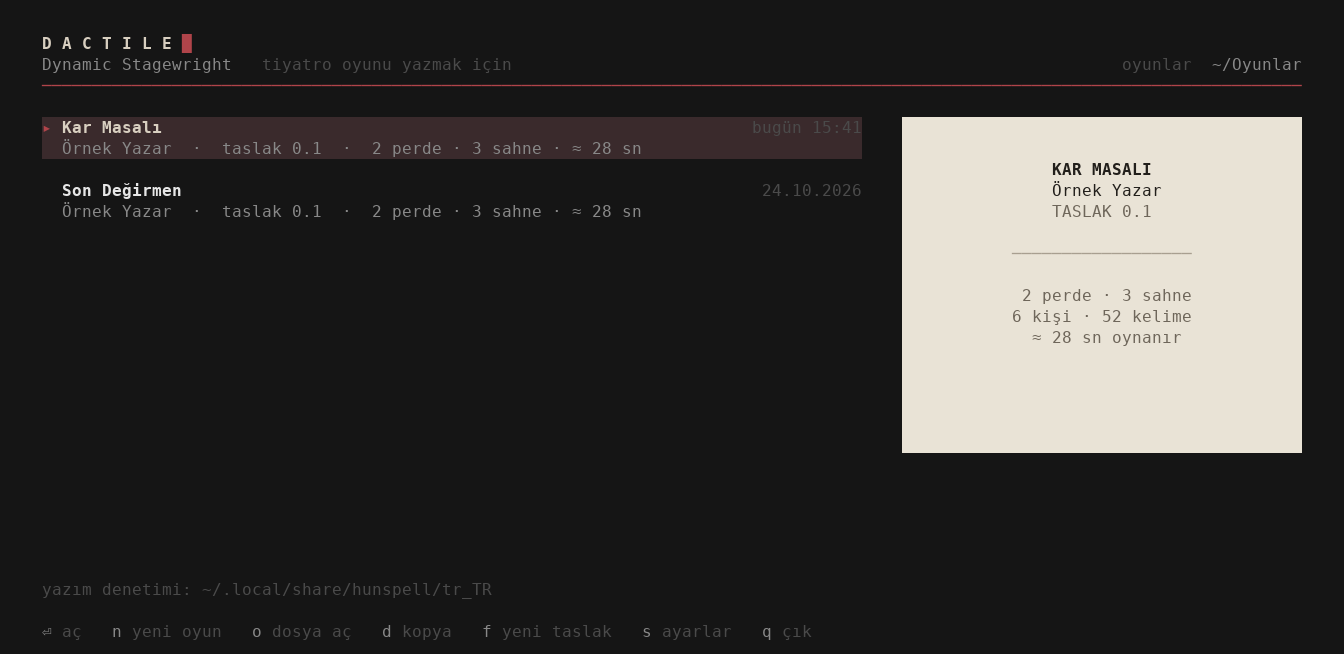
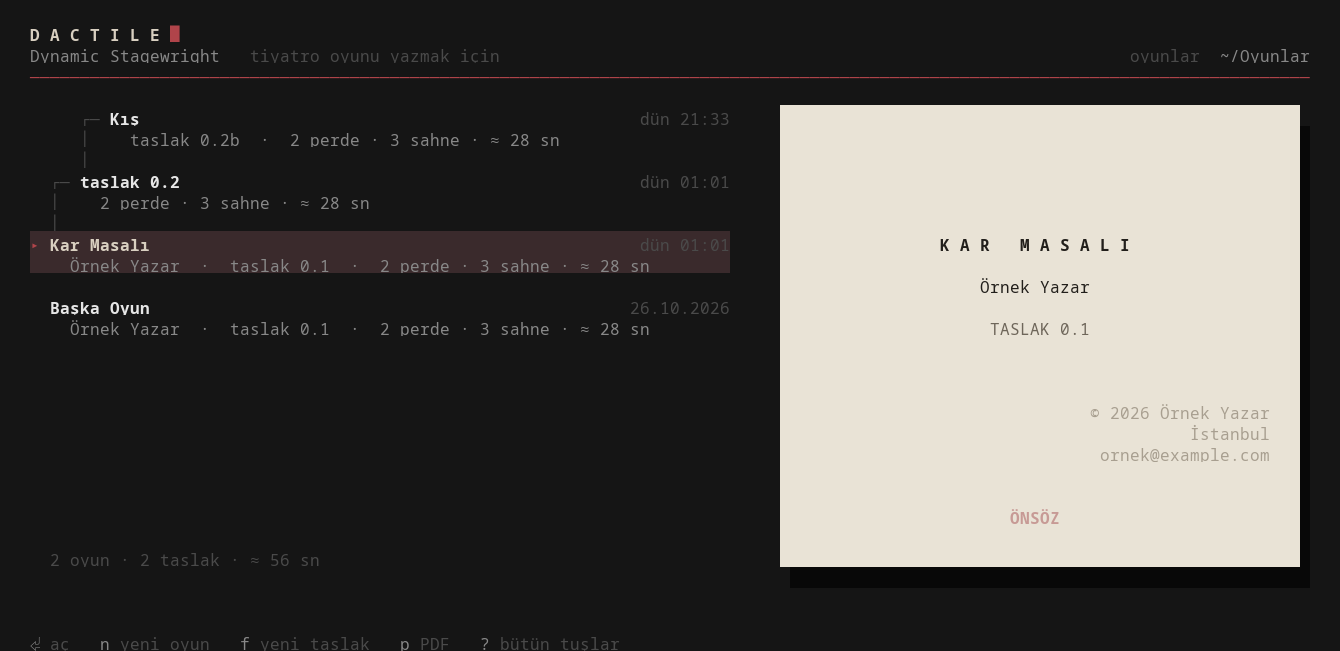
Home: the chosen play's first page fills the right side
The card becomes the play's own first page, laid out by the writer's
renderer in the writer's theme, as tall as the screen, with a shadow and a
foot that fades as if it went on; it unrolls when the choice changes. A
faint line at the list's foot counts the shelf. The key bar keeps the
common keys and `?` opens all of them; the dictionary's path shows only
when it is missing.

diff --git a/src/tui/home.rs b/src/tui/home.rs
@@ -17,6 +17,9 @@ use ratatui::widgets::Paragraph;
 use std::path::{Path, PathBuf};
 use unicode_width::UnicodeWidthStr;
 
+/// How long a play's page takes to unroll.
+const PAGE_OPENS: std::time::Duration = std::time::Duration::from_millis(220);
+
 /// How long the home screen types itself out.
 const TYPE_FOR: std::time::Duration = std::time::Duration::from_millis(2200);
 
@@ -50,6 +53,21 @@ pub struct Home {
     thrown: Option<(String, Vec<dactile::trash::Moved>)>,
     /// The chosen play's title being changed in its row (F2).
     inline: Option<Inline>,
+    /// The chosen play's first page as the writer lays it out, kept until
+    /// the play or the file changes.
+    page: Option<Page>,
+    /// When the page of another play came: it unrolls.
+    page_born: std::time::Instant,
+    page_for: Option<PathBuf>,
+    /// `?`: every key in a window.
+    keys_open: bool,
+}
+
+struct Page {
+    path: PathBuf,
+    modified: Option<std::time::SystemTime>,
+    width: u16,
+    rows: Vec<dactile::render::Row>,
 }
 
 /// A title typed over in its row, as a file manager renames.
@@ -80,6 +98,10 @@ impl Home {
             arming: None,
             thrown: None,
             inline: None,
+            page: None,
+            page_born: std::time::Instant::now(),
+            page_for: None,
+            keys_open: false,
         };
         h.refresh(cfg);
         // On the play worked on last.
@@ -138,8 +160,15 @@ impl Home {
             }
             return Action::Stay;
         }
+        if std::mem::take(&mut self.keys_open) {
+            // Any key closes the keys; Esc and ? do nothing else.
+            if matches!(k.code, KeyCode::Esc | KeyCode::Char('?')) {
+                return Action::Stay;
+            }
+        }
         let ctrl = k.modifiers.contains(KeyModifiers::CONTROL);
         match k.code {
+            KeyCode::Char('?') => self.keys_open = true,
             KeyCode::Char('q') | KeyCode::Esc => return Action::Quit,
             KeyCode::Char('c') if ctrl => return Action::Quit,
             KeyCode::Up => self.sel = self.sel.saturating_sub(1),
@@ -318,7 +347,8 @@ impl Home {
     pub fn animating(&self, cfg: &Config) -> bool {
         cfg.animations
             && (self.born.elapsed() < TYPE_FOR
-                || self.form_born.elapsed() < std::time::Duration::from_millis(160))
+                || self.form_born.elapsed() < std::time::Duration::from_millis(160)
+                || self.page_born.elapsed() < PAGE_OPENS)
     }
 
     /// How much of `s` has been typed so far, `delay` after the screen came.
@@ -840,37 +870,57 @@ impl Home {
             ];
             f.render_widget(Paragraph::new(lines).style(theme::base()), body);
         } else {
-            // The list, and a card for the chosen play when there is room.
-            let card_w = if body.width >= 90 { 40 } else { 0 };
-            let list = Rect {
+            // The list, and the chosen play's first page when there is room,
+            // as tall as the screen.
+            let page_w = if body.width >= 90 {
+                (body.width * 42 / 100).clamp(44, 64)
+            } else {
+                0
+            };
+            let mut list = Rect {
                 width: body
                     .width
-                    .saturating_sub(card_w + if card_w > 0 { 4 } else { 0 }),
+                    .saturating_sub(page_w + if page_w > 0 { 5 } else { 0 }),
                 ..body
             };
+            // A line of the whole shelf at the list's foot, while the list
+            // leaves room for it.
+            if self.plays.len() * 3 + 2 <= list.height as usize {
+                self.draw_footing(
+                    f,
+                    Rect {
+                        y: list.y + list.height - 1,
+                        height: 1,
+                        ..list
+                    },
+                );
+                list.height -= 2;
+            }
             self.draw_list(f, list);
-            if card_w > 0
-                && let Some(p) = self.plays.get(self.sel)
-            {
-                let card = Rect {
-                    x: body.x + body.width - card_w,
-                    width: card_w,
-                    height: body.height.min(16),
-                    ..body
+            if page_w > 0 {
+                let page = Rect {
+                    x: body.x + body.width - page_w,
+                    width: page_w,
+                    y: area.y + 5,
+                    // Its shadow ends above the message line.
+                    height: area.height.saturating_sub(8),
                 };
-                draw_card(f, card, p, cfg.theme());
+                let path = self.plays.get(self.sel).map(|p| p.path.clone());
+                if path != self.page_for {
+                    self.page_for = path;
+                    self.page_born = std::time::Instant::now();
+                }
+                let before = (cfg.animations && self.page_born.elapsed() < PAGE_OPENS)
+                    .then(|| f.buffer_mut().clone());
+                self.draw_page(f, page, cfg.theme());
+                if let Some(before) = before {
+                    super::anim::unroll(f.buffer_mut(), &before, self.page_born, PAGE_OPENS);
+                }
             }
         }
-        // The spell checker, so a missing dictionary is noticed here.
+        // A missing dictionary is noticed here.
         let dict = match spell::find() {
-            Some((aff, _)) => Span::styled(
-                lang::f(
-                    "yazım denetimi: {}",
-                    "spell check: {}",
-                    &[&config::tilde(&aff.with_extension(""))],
-                ),
-                Style::default().fg(FAINT),
-            ),
+            Some(_) => Span::raw(""),
             None => Span::styled(
                 lang::l(
                     "Türkçe sözlük yok, yazım denetimi kapalı: paru -S hunspell-tr",
@@ -905,14 +955,9 @@ impl Home {
             &[
                 ("⏎", lang::l("aç", "open")),
                 ("n", lang::l("yeni oyun", "new play")),
-                ("o", lang::l("dosya aç", "open a file")),
-                ("d", lang::l("kopya", "copy")),
                 ("f", lang::l("yeni taslak", "new draft")),
                 ("p", "PDF"),
-                ("F2", lang::l("ad", "rename")),
-                ("Del", lang::l("çöpe", "trash")),
-                ("s", lang::l("ayarlar", "settings")),
-                ("q", lang::l("çık", "quit")),
+                ("?", lang::l("bütün tuşlar", "all keys")),
             ]
         };
         let mut spans = Vec::new();
@@ -932,6 +977,9 @@ impl Home {
                 height: 1,
             },
         );
+        if self.keys_open {
+            draw_keys(f, area);
+        }
         if let Some(form) = &self.form {
             // The form unrolls over what was there.
             let opens = std::time::Duration::from_millis(160);
@@ -940,6 +988,125 @@ impl Home {
             popup::draw_form(f, area, form);
             if let Some(before) = before {
                 super::anim::unroll(f.buffer_mut(), &before, self.form_born, opens);
+            }
+        }
+    }
+
+    /// "3 oyun · 4 taslak · ≈ 1 sa 52 dk": the shelf in one faint line.
+    fn draw_footing(&self, f: &mut Frame, area: Rect) {
+        let drafts = self.plays.iter().filter(|p| p.parent.is_some()).count();
+        let roots = self.plays.len() - drafts;
+        // The plays' own running times, not their drafts' again.
+        let secs: u32 = self
+            .plays
+            .iter()
+            .filter(|p| p.parent.is_none())
+            .map(|p| p.secs)
+            .sum();
+        let mut s = lang::f("{} oyun", "{} plays", &[&roots]);
+        if drafts > 0 {
+            s.push_str(&lang::f(" · {} taslak", " · {} drafts", &[&drafts]));
+        }
+        s.push_str(&format!(" · ≈ {}", timing::format(secs)));
+        f.render_widget(
+            Paragraph::new(s).style(theme::base().fg(FAINT)),
+            Rect {
+                x: area.x + 2,
+                width: area.width.saturating_sub(2),
+                ..area
+            },
+        );
+    }
+
+    /// The chosen play's first page, laid out as the writer lays it out, on
+    /// paper as tall as the screen, its foot fading as if it went on.
+    fn draw_page(&mut self, f: &mut Frame, area: Rect, theme_name: &str) {
+        let Some(p) = self.plays.get(self.sel) else {
+            return;
+        };
+        let pal = theme::palette(theme_name);
+        // The paper, and its shadow on the right and below.
+        let paper = Rect {
+            width: area.width.saturating_sub(1),
+            height: area.height.saturating_sub(1),
+            ..area
+        };
+        let text_w = paper.width.saturating_sub(6);
+        let modified = dactile::file::modified(&p.path);
+        let fresh = self
+            .page
+            .as_ref()
+            .is_some_and(|c| c.path == p.path && c.modified == modified && c.width == text_w);
+        if !fresh {
+            self.page = std::fs::read_to_string(&p.path).ok().map(|text| {
+                let doc = dactile::render::Doc::new(&text);
+                let lay = dactile::render::layout(
+                    &text,
+                    &doc,
+                    dactile::render::Options {
+                        width: text_w,
+                        raw_block: None,
+                        raw_all: false,
+                        preamble_open: false,
+                        focus_scene: None,
+                        page_rows: None,
+                    },
+                );
+                Page {
+                    path: p.path.clone(),
+                    modified,
+                    width: text_w,
+                    // Without the folded preamble's line.
+                    rows: lay.rows.into_iter().filter(|r| r.block.is_some()).collect(),
+                }
+            });
+        }
+        let Some(page) = &self.page else {
+            draw_card(
+                f,
+                Rect {
+                    height: area.height.min(16),
+                    ..area
+                },
+                p,
+                theme_name,
+            );
+            return;
+        };
+        let buf = f.buffer_mut();
+        for y in area.y..area.y + area.height {
+            for x in area.x..area.x + area.width {
+                let on_paper = x < paper.x + paper.width && y < paper.y + paper.height;
+                let shadow = !on_paper && x > area.x && y > area.y;
+                let bg = if on_paper {
+                    pal.bg
+                } else if shadow {
+                    theme::SHADOW
+                } else {
+                    theme::BG
+                };
+                buf[(x, y)].set_char(' ').set_style(Style::default().bg(bg));
+            }
+        }
+        // A row of paper above the text, one below.
+        let room = paper.height.saturating_sub(2) as usize;
+        let fade = 4.min(room);
+        for (i, row) in page.rows.iter().take(room).enumerate() {
+            let y = paper.y + 1 + i as u16;
+            // The last rows fade into the paper.
+            let t = (i + fade + 1).saturating_sub(room) as f32 / (fade + 1) as f32;
+            for c in &row.cells {
+                let x = paper.x + 3 + c.col;
+                if x >= paper.x + paper.width - 3 {
+                    continue;
+                }
+                let mut st = theme::on(c.style, pal);
+                if t > 0.0
+                    && let Some(fg) = st.fg
+                {
+                    st = st.fg(super::anim::mix(fg, pal.bg, t));
+                }
+                buf[(x, y)].set_char(c.ch).set_style(st);
             }
         }
     }
@@ -1086,6 +1253,55 @@ impl Home {
 
 /// The chosen play's cover in miniature, on a page like the writer's, with
 /// its numbers under it.
+/// `?`: every key of the home screen.
+fn draw_keys(f: &mut Frame, area: Rect) {
+    let keys: [(&str, &str, &str); 12] = [
+        ("⏎", "oyunu aç", "open the play"),
+        ("n", "yeni oyun", "a new play"),
+        (
+            "o",
+            "başka yerden bir .tex aç",
+            "open a .tex from elsewhere",
+        ),
+        ("d", "kopyasını çıkar", "make a copy"),
+        ("f", "yeni taslak", "a new draft"),
+        ("p", "PDF'i aç", "open the PDF"),
+        ("F2", "adını satırda değiştir", "rename in its row"),
+        (
+            "Shift+F2",
+            "başlık ve dosya adı ayrı",
+            "title and file name apart",
+        ),
+        ("Del Del", "çöp kutusuna", "to the trash"),
+        ("u", "çöpten geri getir", "back from the trash"),
+        ("s", "ayarlar", "settings"),
+        ("q", "çık", "quit"),
+    ];
+    let w = 46u16.min(area.width.saturating_sub(4));
+    let h = keys.len() as u16 + 4;
+    let r = Rect {
+        x: area.x + area.width.saturating_sub(w) / 2,
+        y: area.y + area.height.saturating_sub(h) / 3,
+        width: w,
+        height: h.min(area.height),
+    };
+    popup::float(f, r);
+    f.render_widget(popup::panel(lang::l("tuşlar", "keys")), r);
+    let lines: Vec<Line> = keys
+        .iter()
+        .map(|&(k, tr, en)| {
+            Line::from(vec![
+                Span::styled(format!("{k:>9}  "), Style::default().fg(BEIGE)),
+                Span::styled(
+                    if lang::is_tr() { tr } else { en },
+                    Style::default().fg(MUTED),
+                ),
+            ])
+        })
+        .collect();
+    f.render_widget(Paragraph::new(lines).style(theme::base()), popup::inner(r));
+}
+
 fn draw_card(f: &mut Frame, area: Rect, p: &Play, theme_name: &str) {
     let pal = theme::palette(theme_name);
     let base = Style::default().fg(pal.fg).bg(pal.bg);

diff --git a/README.md b/README.md
@@ -75,8 +75,10 @@ from as a tree, the newest on top, and the home screen opens on the play you
 worked on last. F2 renames a play right in its row, as a file manager does:
 type the new title, and its file, and the files that go with it, follow (a
 draft keeps its number at the end of its file name). Shift+F2 gives the title
-and the file name separately. `p` opens its PDF. Del, pressed twice, sends it to the desktop's trash, and `u` brings
-it back.
+and the file name separately. `p` opens its PDF. Del, pressed twice, sends
+it to the desktop's trash, and `u` brings it back; `?` lists every key.
+Beside the list stands the chosen play's first page, as tall as the screen,
+laid out as the writer lays it out, in the writer's theme.
 
 | Type | You get |
 |---|---|

diff --git a/README.tr.md b/README.tr.md
@@ -76,7 +76,9 @@ birikir, en yenisi en üstte; ana ekran en son çalıştığın oyunda açılır
 dosya yöneticisindeki gibi oyunun adını kendi satırında değiştirir: yeni başlığı
 yazarsın, dosya adı ve yanındaki dosyalar da onu izler (taslak, dosya adının
 sonundaki numarasını korur). Shift+F2 başlığı ve dosya adını ayrı ayrı sorar; `p`
-PDF'ini açar; iki kez Del onu masaüstünün çöp kutusuna atar, `u` geri getirir.
+PDF'ini açar; iki kez Del onu masaüstünün çöp kutusuna atar, `u` geri getirir;
+`?` bütün tuşları gösterir. Listenin yanında seçili oyunun ilk sayfası durur:
+ekran boyunca, yazıcıdaki gibi dizilmiş, yazıcının temasında.
 
 | Yazınca | Olan |
 |---|---|
